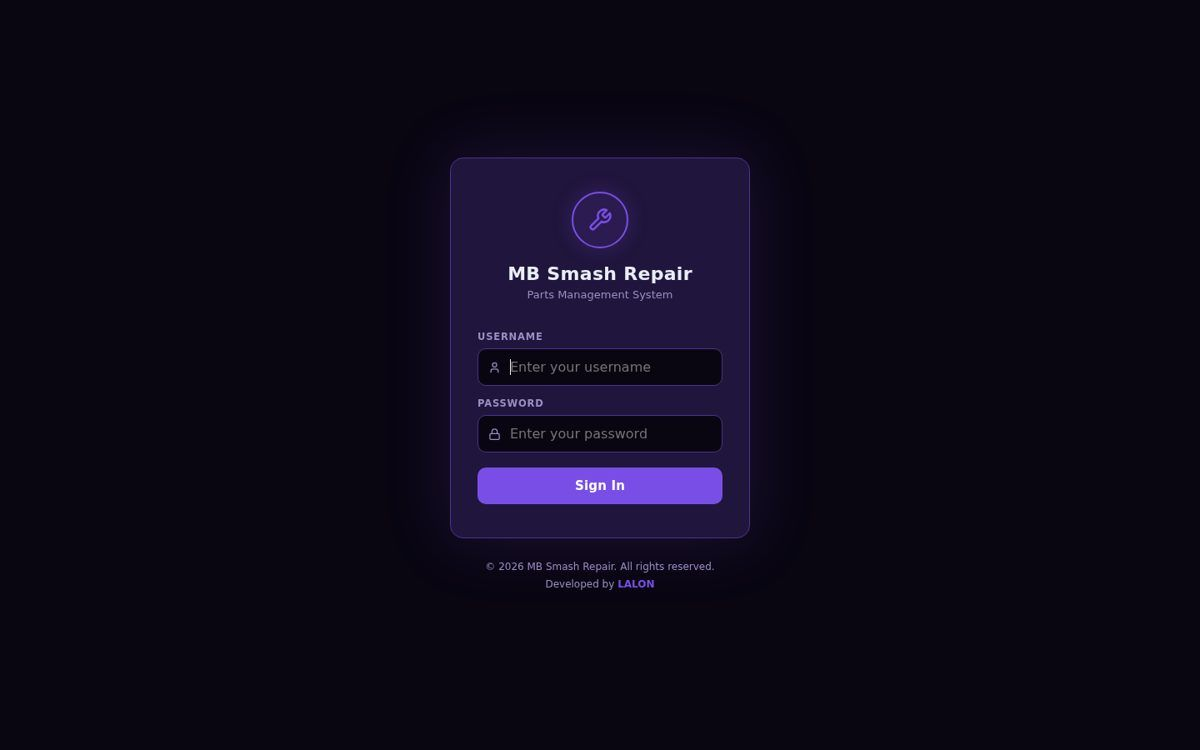
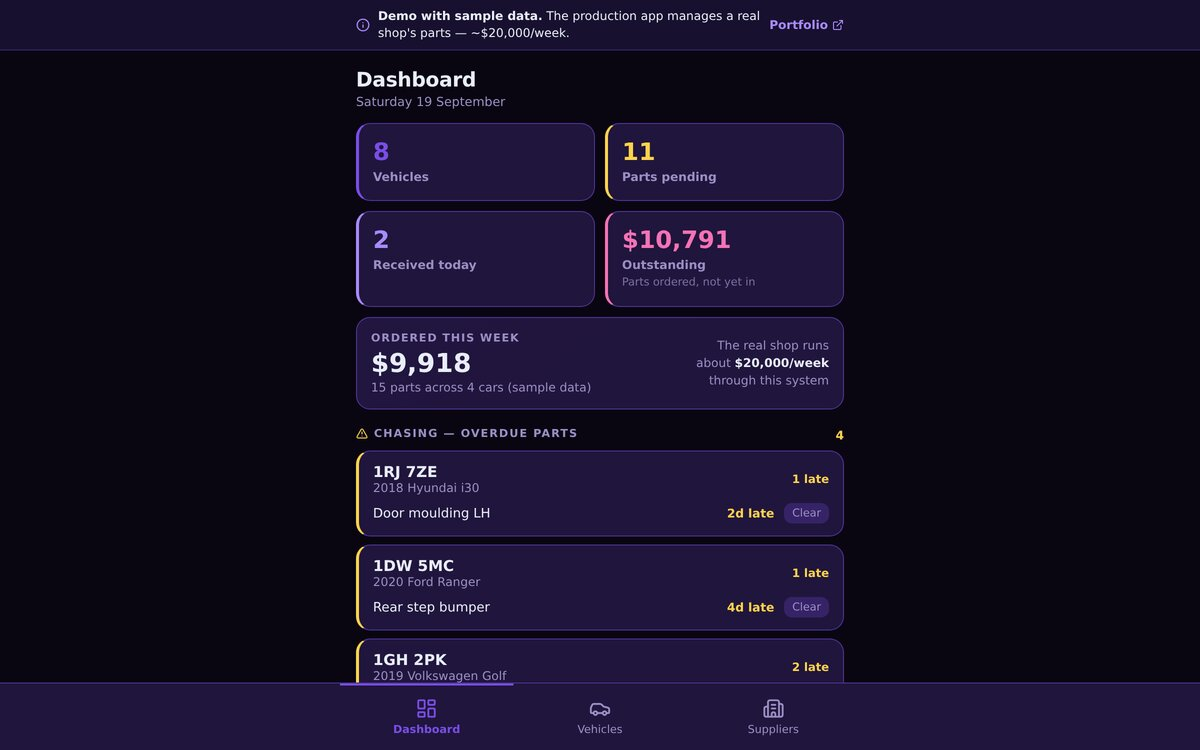
MB Smash: link to the public demo, describe real-world use, dashboard card image

diff --git a/src/data.js b/src/data.js
@@ -109,9 +109,10 @@ export const projects = [
     featured: true,
     image: mbsmash,
     summary:
-      'Parts management and ordering system for an auto-body repair shop. Staff log in, browse vehicles by make/model, manage the parts catalogue and place orders; invoices can be parsed straight into stock. Ships as an installable Android app via Trusted Web Activity.',
+      'Parts management and ordering system in daily use at a real Australian smash repair shop. Staff order every part for every car through it, chase overdue deliveries and reconcile invoices into stock — by the owner\'s estimate around $20,000 of parts orders a week. Next.js on PostgreSQL with signed sessions, login throttling and a full change log; ships as an installable Android app via Trusted Web Activity. The live link opens an interactive demo with sample data — the production system stays private.',
     tech: ['Next.js', 'React', 'PostgreSQL', 'Lucide', 'Vercel', 'Android TWA'],
-    live: 'https://mbsmash.vercel.app/demo',
+    live: 'https://mbsmash-demo.netlify.app',
+    liveLabel: 'Live demo',
     code: 'https://github.com/lalon147/mbsmash',
   },
   {

diff --git a/src/components/Projects.jsx b/src/components/Projects.jsx
@@ -6,7 +6,7 @@ function Links({ p }) {
   const cls = 'inline-flex items-center gap-1.5 text-sm font-medium text-muted transition hover:text-accent'
   return (
     <div className="flex flex-wrap gap-4">
-      {p.live && <a className={cls} href={p.live} target="_blank" rel="noreferrer"><FaExternalLinkAlt /> Live</a>}
+      {p.live && <a className={cls} href={p.live} target="_blank" rel="noreferrer"><FaExternalLinkAlt /> {p.liveLabel || 'Live'}</a>}
       {p.code && <a className={cls} href={p.code} target="_blank" rel="noreferrer"><FaGithub /> {p.server ? 'Client' : 'Code'}</a>}
       {p.server && <a className={cls} href={p.server} target="_blank" rel="noreferrer"><FaServer /> Server</a>}
       {!p.live && !p.code && <span className="inline-flex items-center gap-1.5 text-sm font-medium text-muted"><FaLock /> Private · in development</span>}
